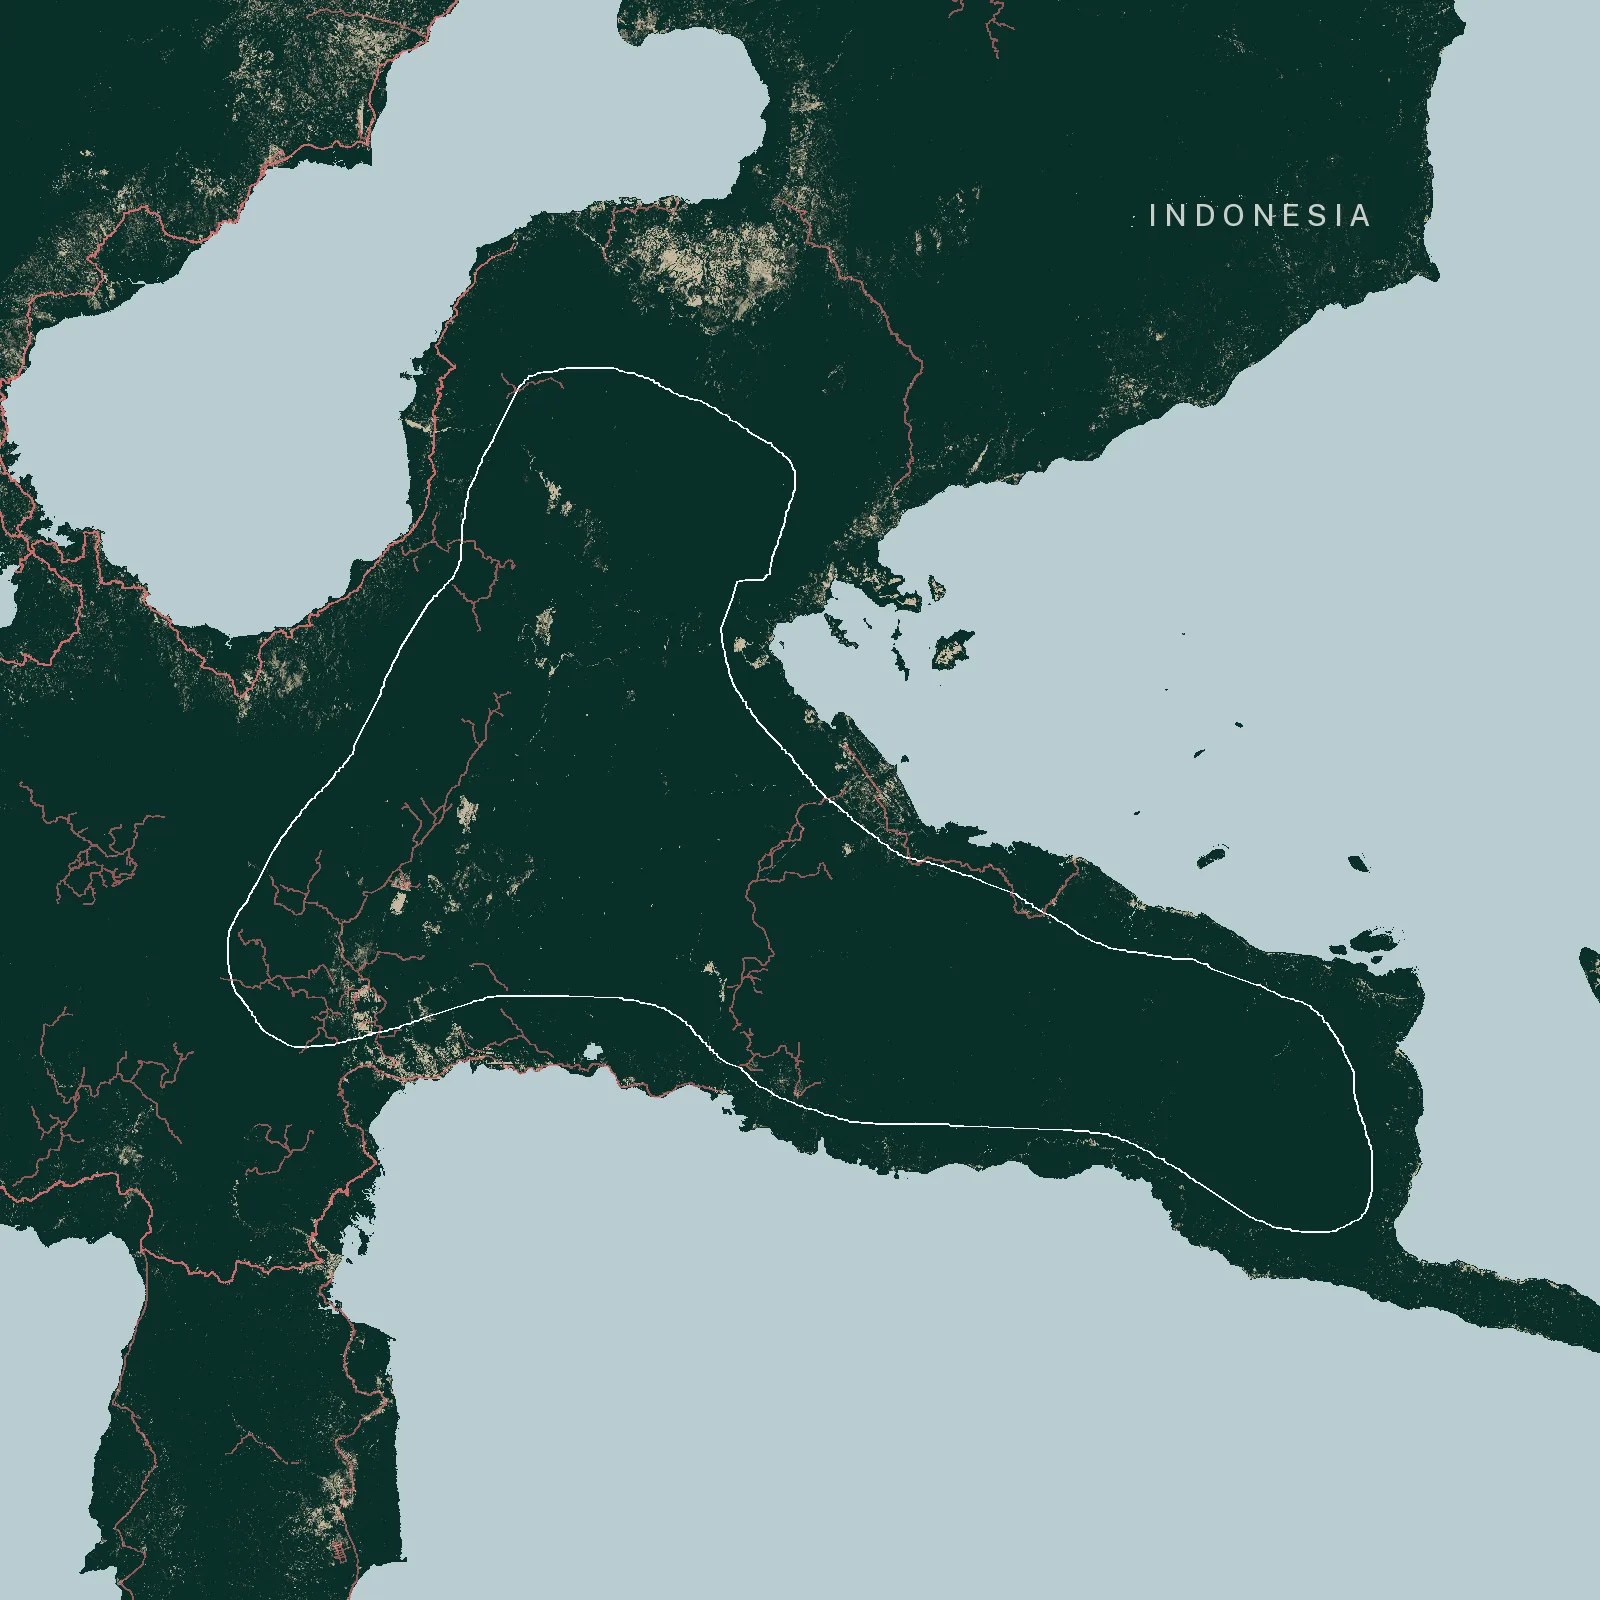
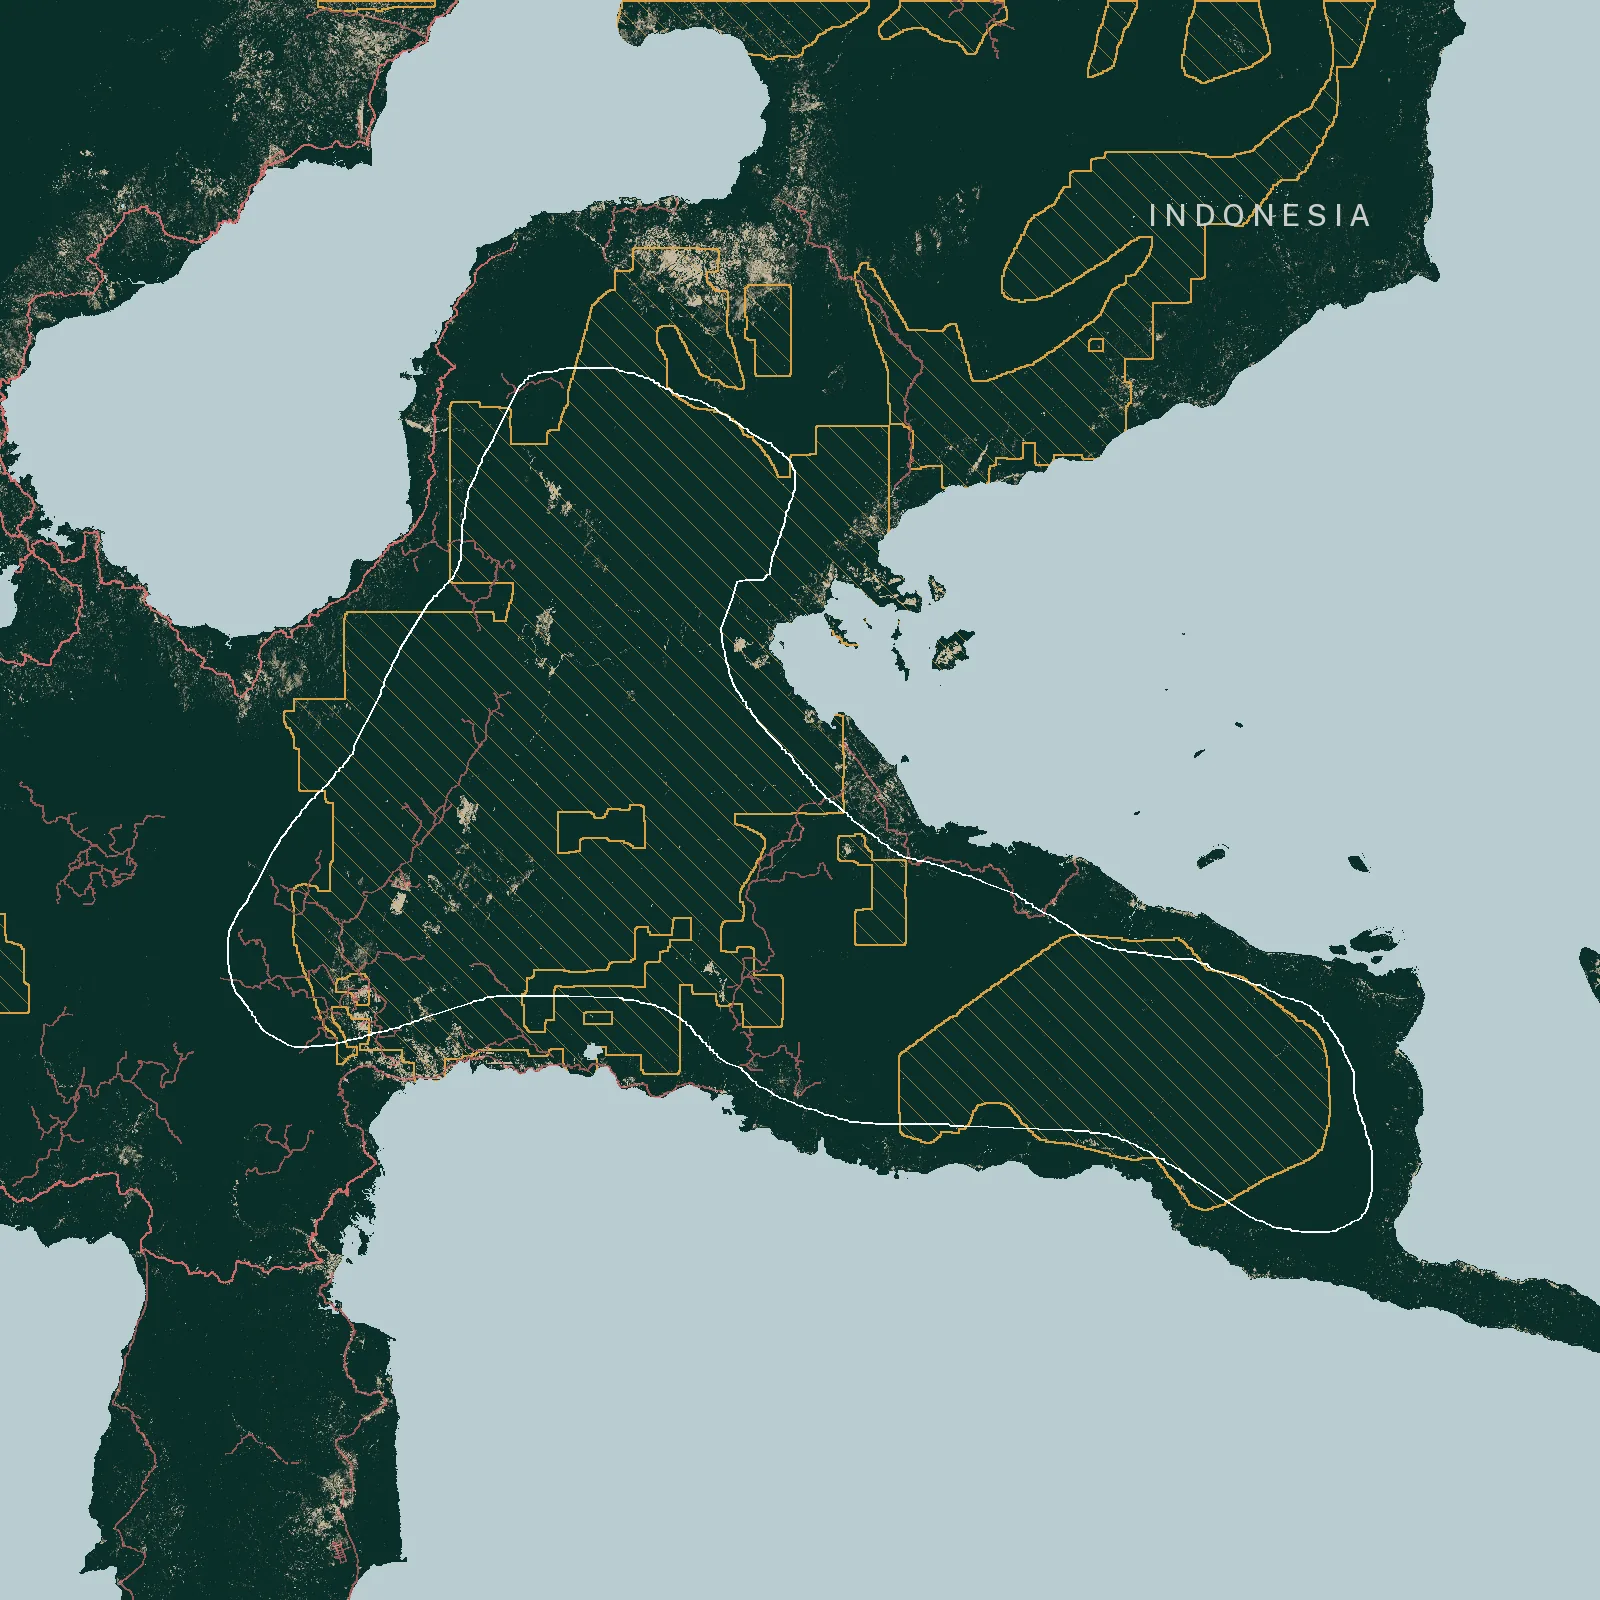
Lay the concession areas over the Halmahera map
Traced from the story's own concession map, which arrived as a picture:
no world file, no corner coordinates, only a scale bar. The coastline
is the control instead — a three-parameter fit of the picture's own
land/sea mask against the same Hansen mask this panel's land is drawn
from, scored over every pixel rather than a few points placed by eye.
It settles at 98.9% agreement. Registering on the panel's own source
means the overlay and the imagery under it share whatever error that
coastline has, so they cannot drift apart where the reader would see it.

The picture's scale bar implies 0.000907 degrees a pixel and the
coastline says 0.0008725; the coastline wins, being fitted over tens of
thousands of boundary pixels rather than one measurement of a drawn bar.

Hatched rather than filled, and amber rather than the roads' pink. A
wash dense enough to read turned the duotone to mud, and the one thing
this layer is for is what lies under it: which concessions still hold
forest and which no longer do. A second hue keeps an area and a line
from being read as the same kind of thing. The hatch and its boundary
are cut to the land mask, since a traced block runs a pixel or two into
the water at the coast.

The territory outline now draws last, over every other layer — it is the
line the reader has to follow all the way round, and a concession
boundary crossing it would break it.

diff --git a/src/config.js b/src/config.js
@@ -695,8 +695,13 @@ export default {
       // box, locator and scale come from render_panels_watch.py
       scale: { n: 20, kmFrac: 0.1504, miFrac: 0.242 },
       locator: [128.17051, 0.63895],
-      legend: [{ label: 'Roads', color: '#e66d6d' }],
-      caption: 'Forest remaining in 2025, with the road network in pink. The outline is Survival International\u2019s approximation of the lands used by O\u2019 Hongana Manyawa. For security reasons, map is deliberately rough.',
+      // The concession key leads: it is the layer the chapter is about, and
+      // it is an area, so it reads before the lines drawn on top of it.
+      legend: [
+        { label: 'Mining and forestry concessions', color: '#e8a643', type: 'area' },
+        { label: 'Roads', color: '#e66d6d' },
+      ],
+      caption: 'Forest remaining in 2025, with mining and forestry concessions hatched and the road network in pink. The outline is Survival International\u2019s approximation of the lands used by O\u2019 Hongana Manyawa. For security reasons, map is deliberately rough.',
       title: 'The O\u2019 Hongana Manyawa in Halmahera',
       description: "<p>Lands used by uncontacted O\u2019 Hongana Manyawa people in Indonesia\u2019s Halmahera Island overlap with the Aketajawe-Lolobata National Park. However, voluntarily isolated members of the tribe use much more land, and mapping efforts by various groups of their territory are underway.</p><p>According to an approximate map by human rights organization Survival International, a wave of mining concessions, many for nickel, impact forests uncontacted O\u2019 Hongana Manyawa people depend on for food and survival.</p><p>The Jakarta declaration, which calls on governments to protect the lands and rights of uncontacted peoples worldwide, was drafted in Indonesia in a bid to strengthen the global alliance for the protection of uncontacted peoples and the inclusion of tribes in Indonesia.</p><p>For the safety of the isolated members of the group, Mongabay will not publish the most up-to-date map of lands the O\u2019 Hongana Manyawa people use.</p><p>\u201CThis map is very helpful in showing the existence of the O\u2019 Hongana Manyawa Indigenous Community \u2026 but does not yet cover the entire O\u2019 Hongana Manyawa Indigenous territory. The work to document the existence of O\u2019 Hongana Manyawa and its Indigenous territory is not yet complete, and it will continue,\u201D said Yoga Kipli, directorate of community support and former head of participatory mapping for the Indigenous Peoples\u2019 Alliance of the Archipelago (AMAN).</p>",
     },

diff --git a/src/components/stages/WatchArea.jsx b/src/components/stages/WatchArea.jsx
@@ -69,9 +69,17 @@ const WatchArea = ({
               <ul className="watch-legend">
                 {keys.map((item) => (
                   <li key={item.label} className="watch-legend__item">
+                    {/* A line key for a line and a hatched box for a hatched
+                        area: a key that is not drawn the way the thing it
+                        stands for is drawn makes the reader look twice. */}
                     <span
-                      className="watch-legend__swatch"
-                      style={{ background: item.color }}
+                      className={`watch-legend__swatch watch-legend__swatch--${item.type || 'line'}`}
+                      style={item.type === 'area'
+                        ? {
+                          backgroundImage: `repeating-linear-gradient(45deg, ${item.color} 0 1.5px, transparent 1.5px 5px)`,
+                          borderColor: item.color,
+                        }
+                        : { background: item.color }}
                     />
                     {t(item.label)}
                   </li>

diff --git a/src/components/stages/WatchArea.css b/src/components/stages/WatchArea.css
@@ -138,6 +138,14 @@
               0 1px 3px rgba(24, 24, 24, 0.55);
 }
 
+/* The area key: the same hatch the map draws, in a box with its own edge. */
+.watch-legend__swatch--area {
+  width: 18px;                                   /* adjust area key size */
+  height: 11px;
+  border: 1px solid;
+  border-radius: 1px;
+}
+
 /* The scale bar is drawn white, which is safe on the ranked panels because
    those boxes are inland and dark all over. These two are islands: the bar's
    corner can fall on the sea, which is now a light tone. A soft shadow keeps
